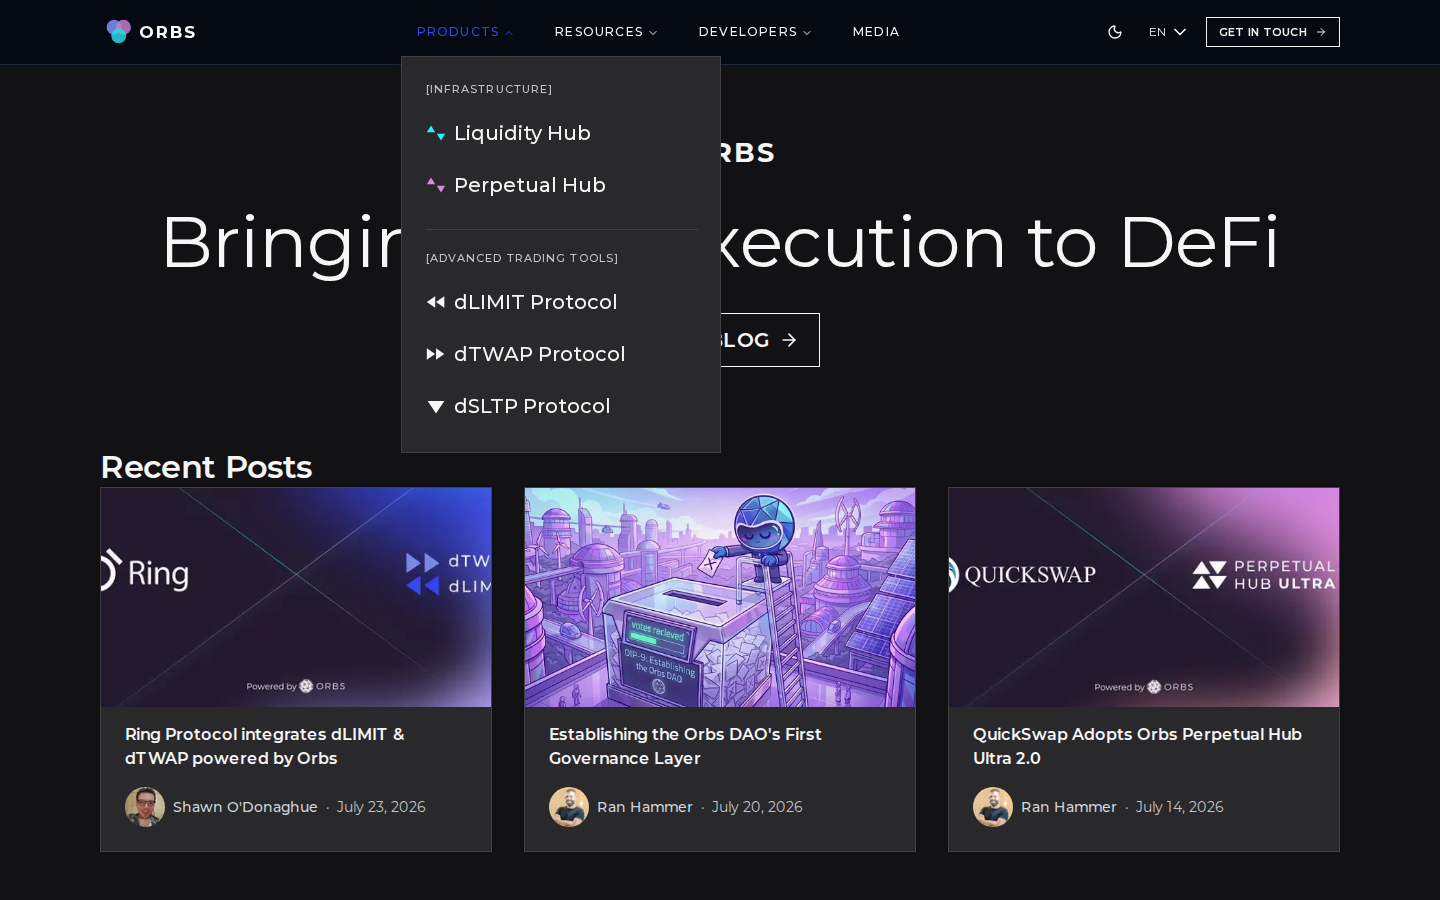
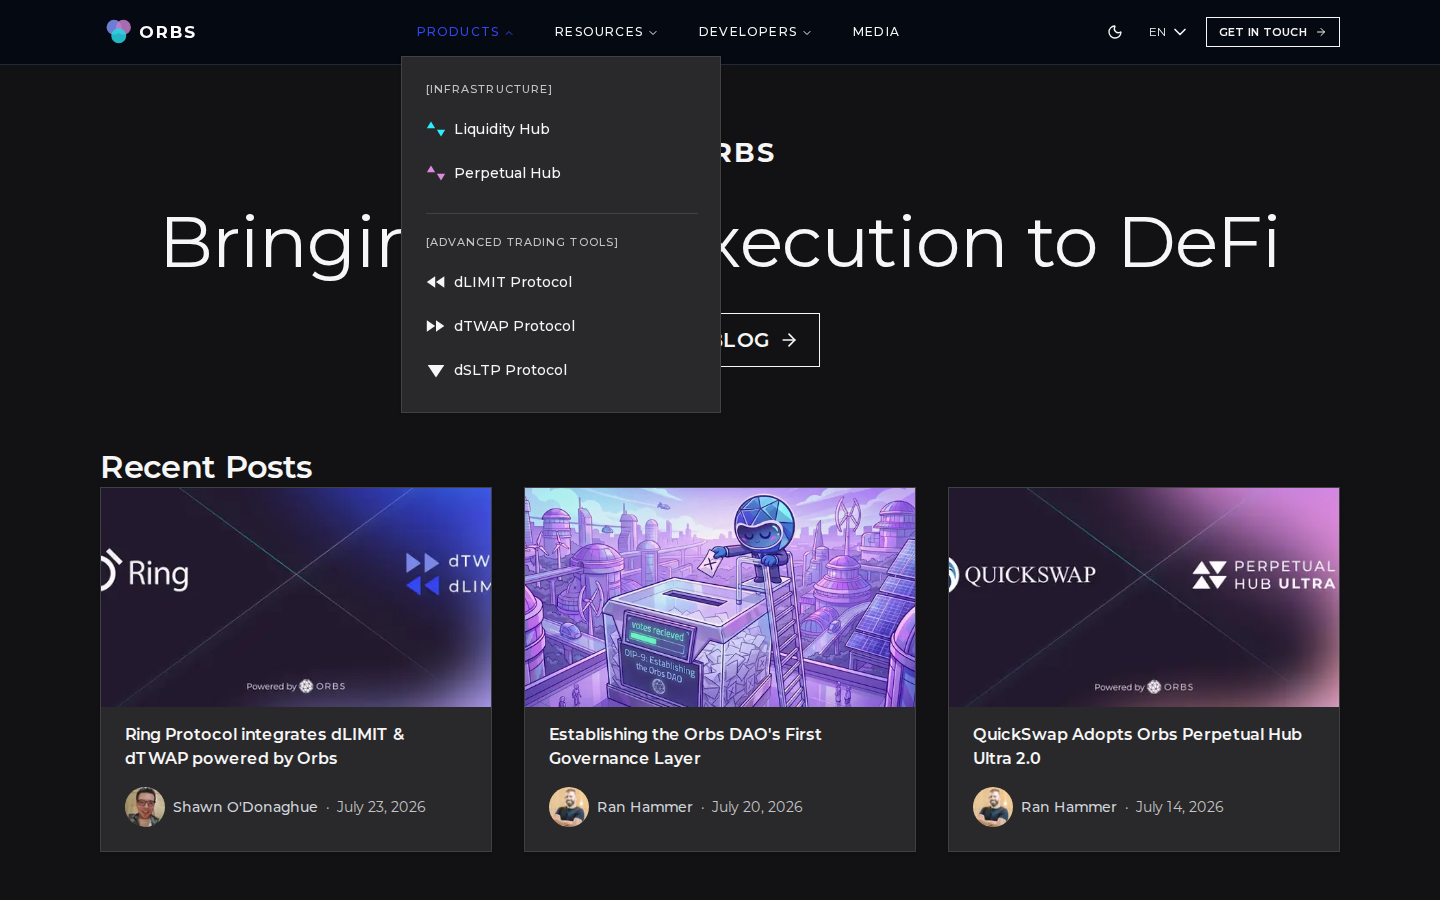
fix: use a menu-sized type token for dropdown rows
`MenuItemW` defaults to `text-field` (20px), which is the design system's
FORM-FIELD size and reads as oversized in a menu. Measured against the
mockup, whose panel is near 1:1 with ours, its rows are ~13-14px.

The scale steps 14 -> 18 -> 20 with nothing between, so `h5` (14px) is the
closest fit. Its `tracking-wider` is intended for uppercase headings and is
reset here, since these rows are title-case.

Overridden at the call site rather than changed on `MenuItemW`: its default
is a design-system decision, not this PR's to make.

Changed region(s): [[0.2812, 0.2489, 0.4375, 0.4667], [0.2812, 0.1867, 0.4062, 0.2178], [0.2812, 0.1244, 0.4062, 0.1556]]

diff --git a/src/app/components/layout/navigation/nav-menu-client.tsx b/src/app/components/layout/navigation/nav-menu-client.tsx
@@ -172,7 +172,16 @@ function NavRow({ link }: { link: ResolvedNavLink }) {
       // box with a lot of empty space between them, so at 16px they read as
       // specks rather than as the paired triangles the design shows.
       icon={Glyph ? <Glyph className="size-5" /> : undefined}
-      className="-mx-2 w-full rounded-sm px-2 py-2.5 hover:bg-accent hover:no-underline"
+      // `MenuItemW` defaults to `text-field` (20px), which is the design
+      // system's FORM-FIELD size and reads as oversized in a menu — measured
+      // against the mockup, its rows are ~13-14px. The scale steps 14 -> 18 ->
+      // 20 with nothing between, so `h5` (14px) is the closest fit. Its
+      // `tracking-wider` is meant for uppercase headings and is reset here,
+      // since these rows are title-case.
+      //
+      // Overridden at the call site rather than changed on `MenuItemW`, whose
+      // default is a design-system decision rather than this PR's to make.
+      className="-mx-2 w-full rounded-sm px-2 py-2.5 text-h5 tracking-normal hover:bg-accent hover:no-underline"
     >
       {link.external ? (
         <a href={link.href} target="_blank" rel="noopener noreferrer">
